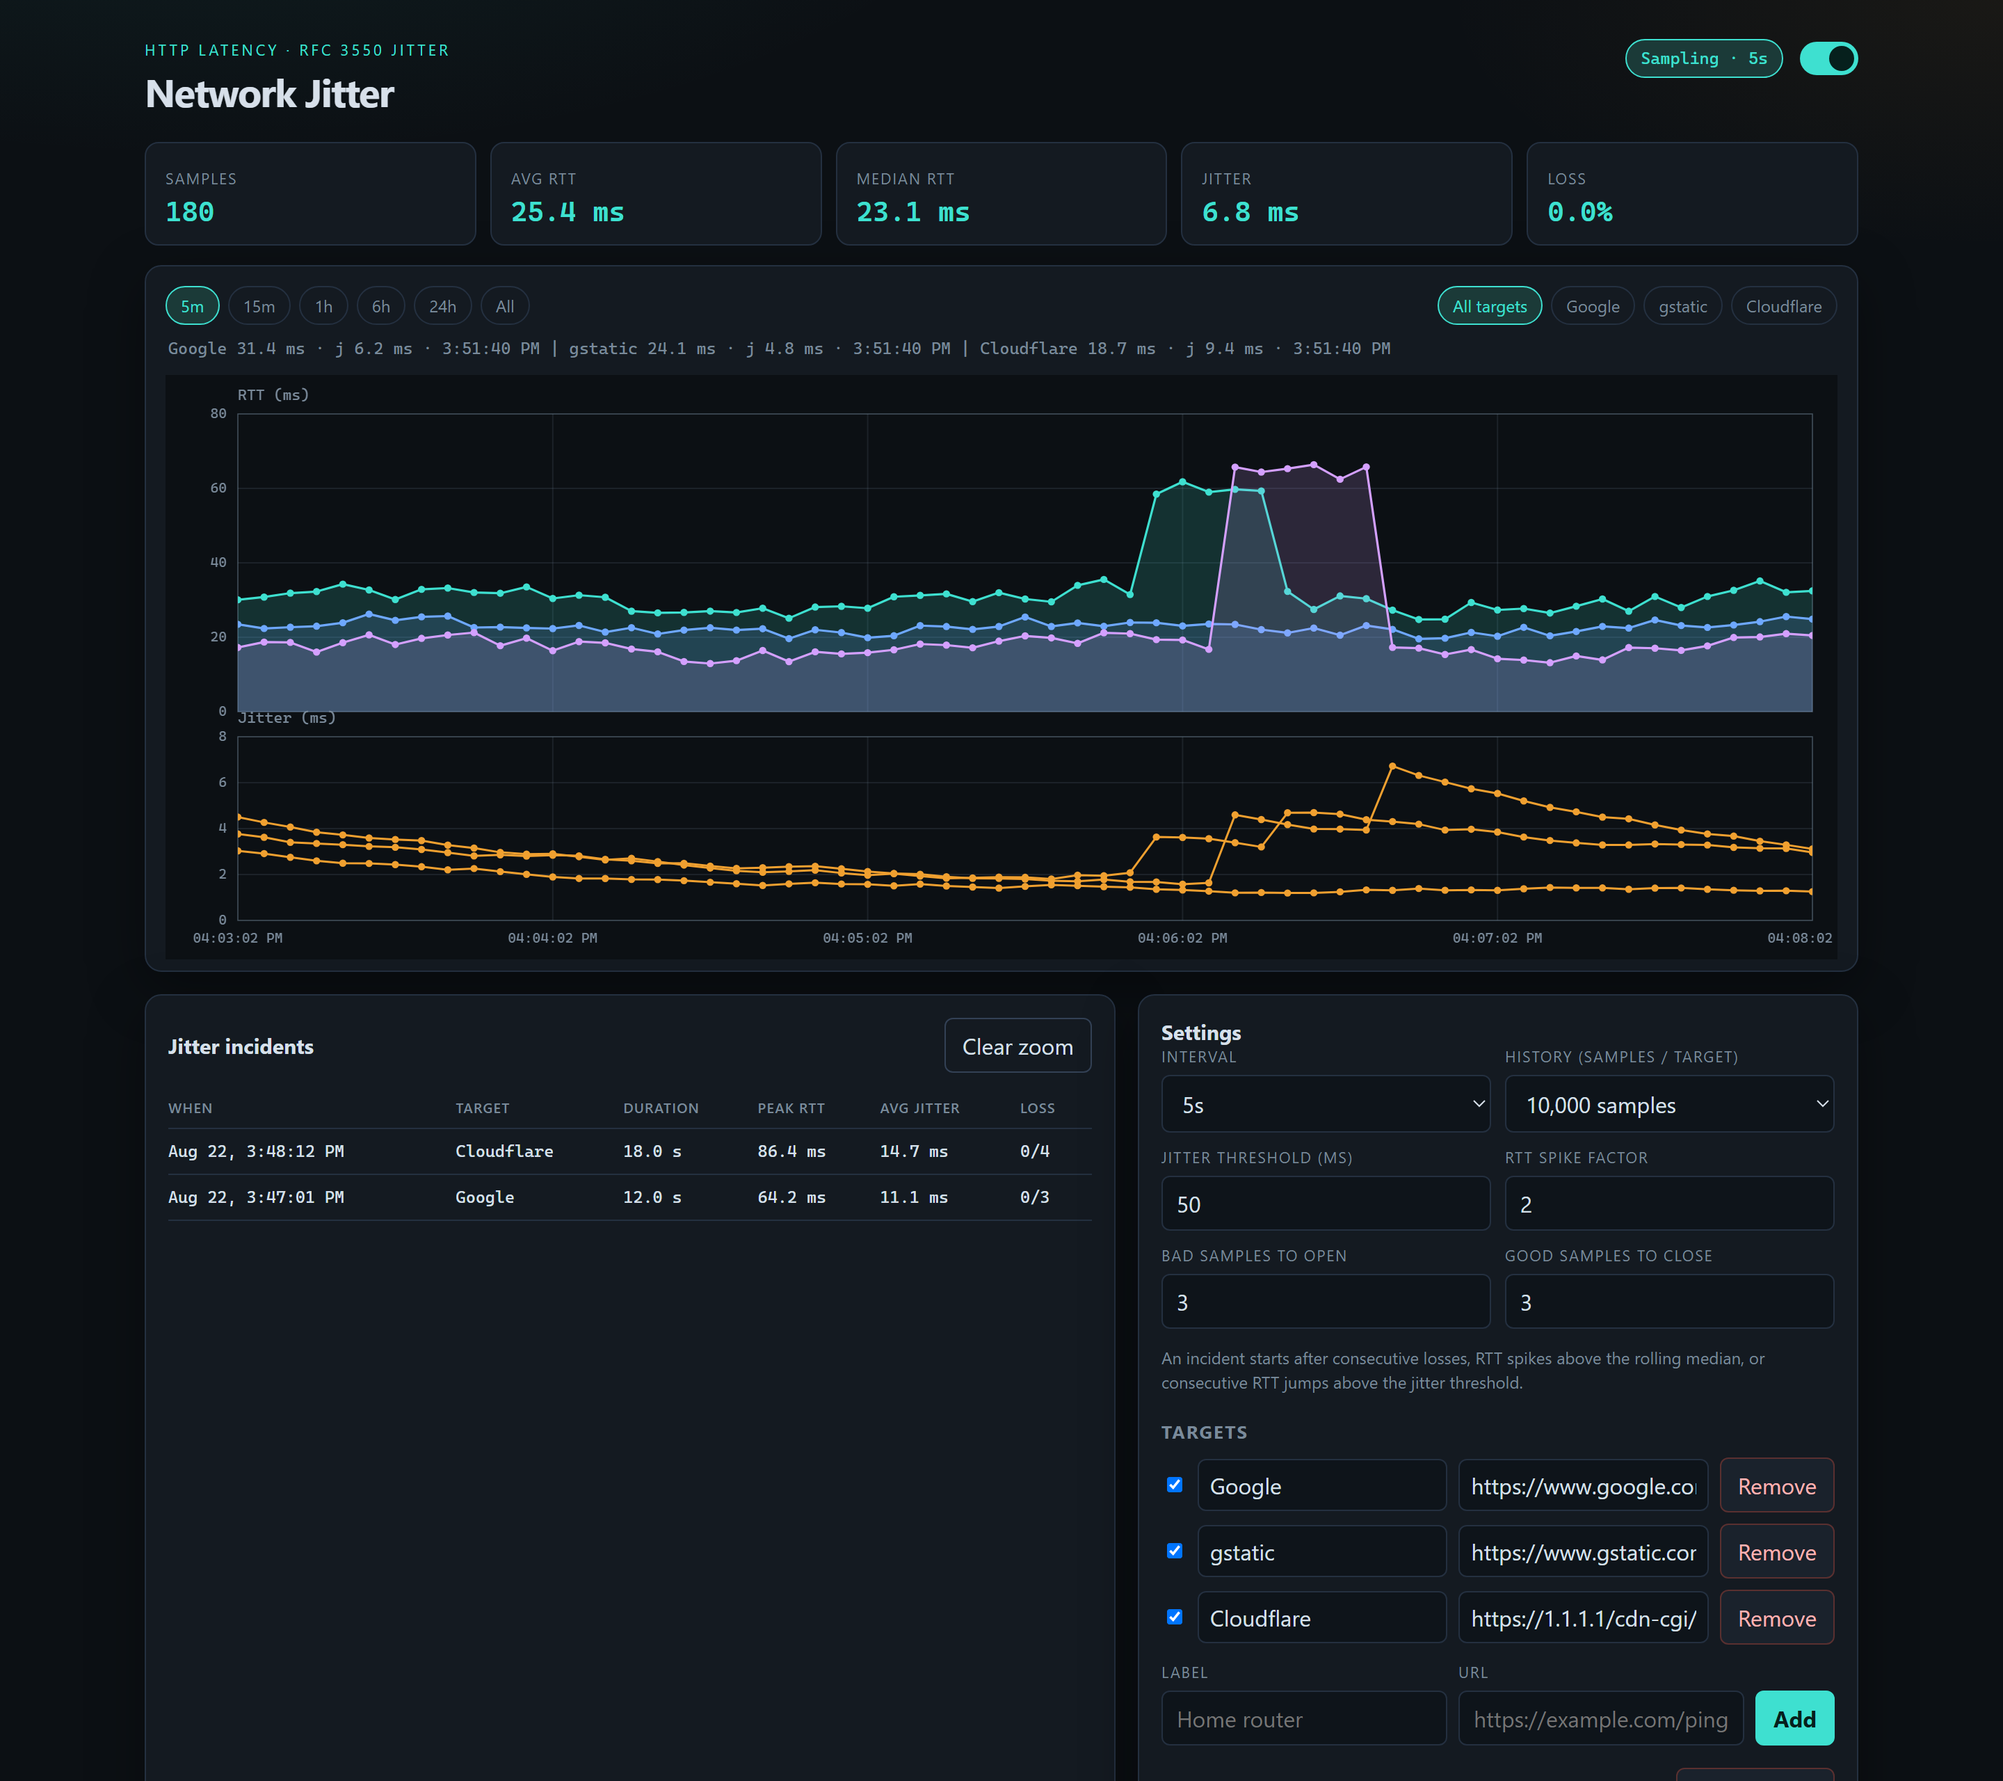
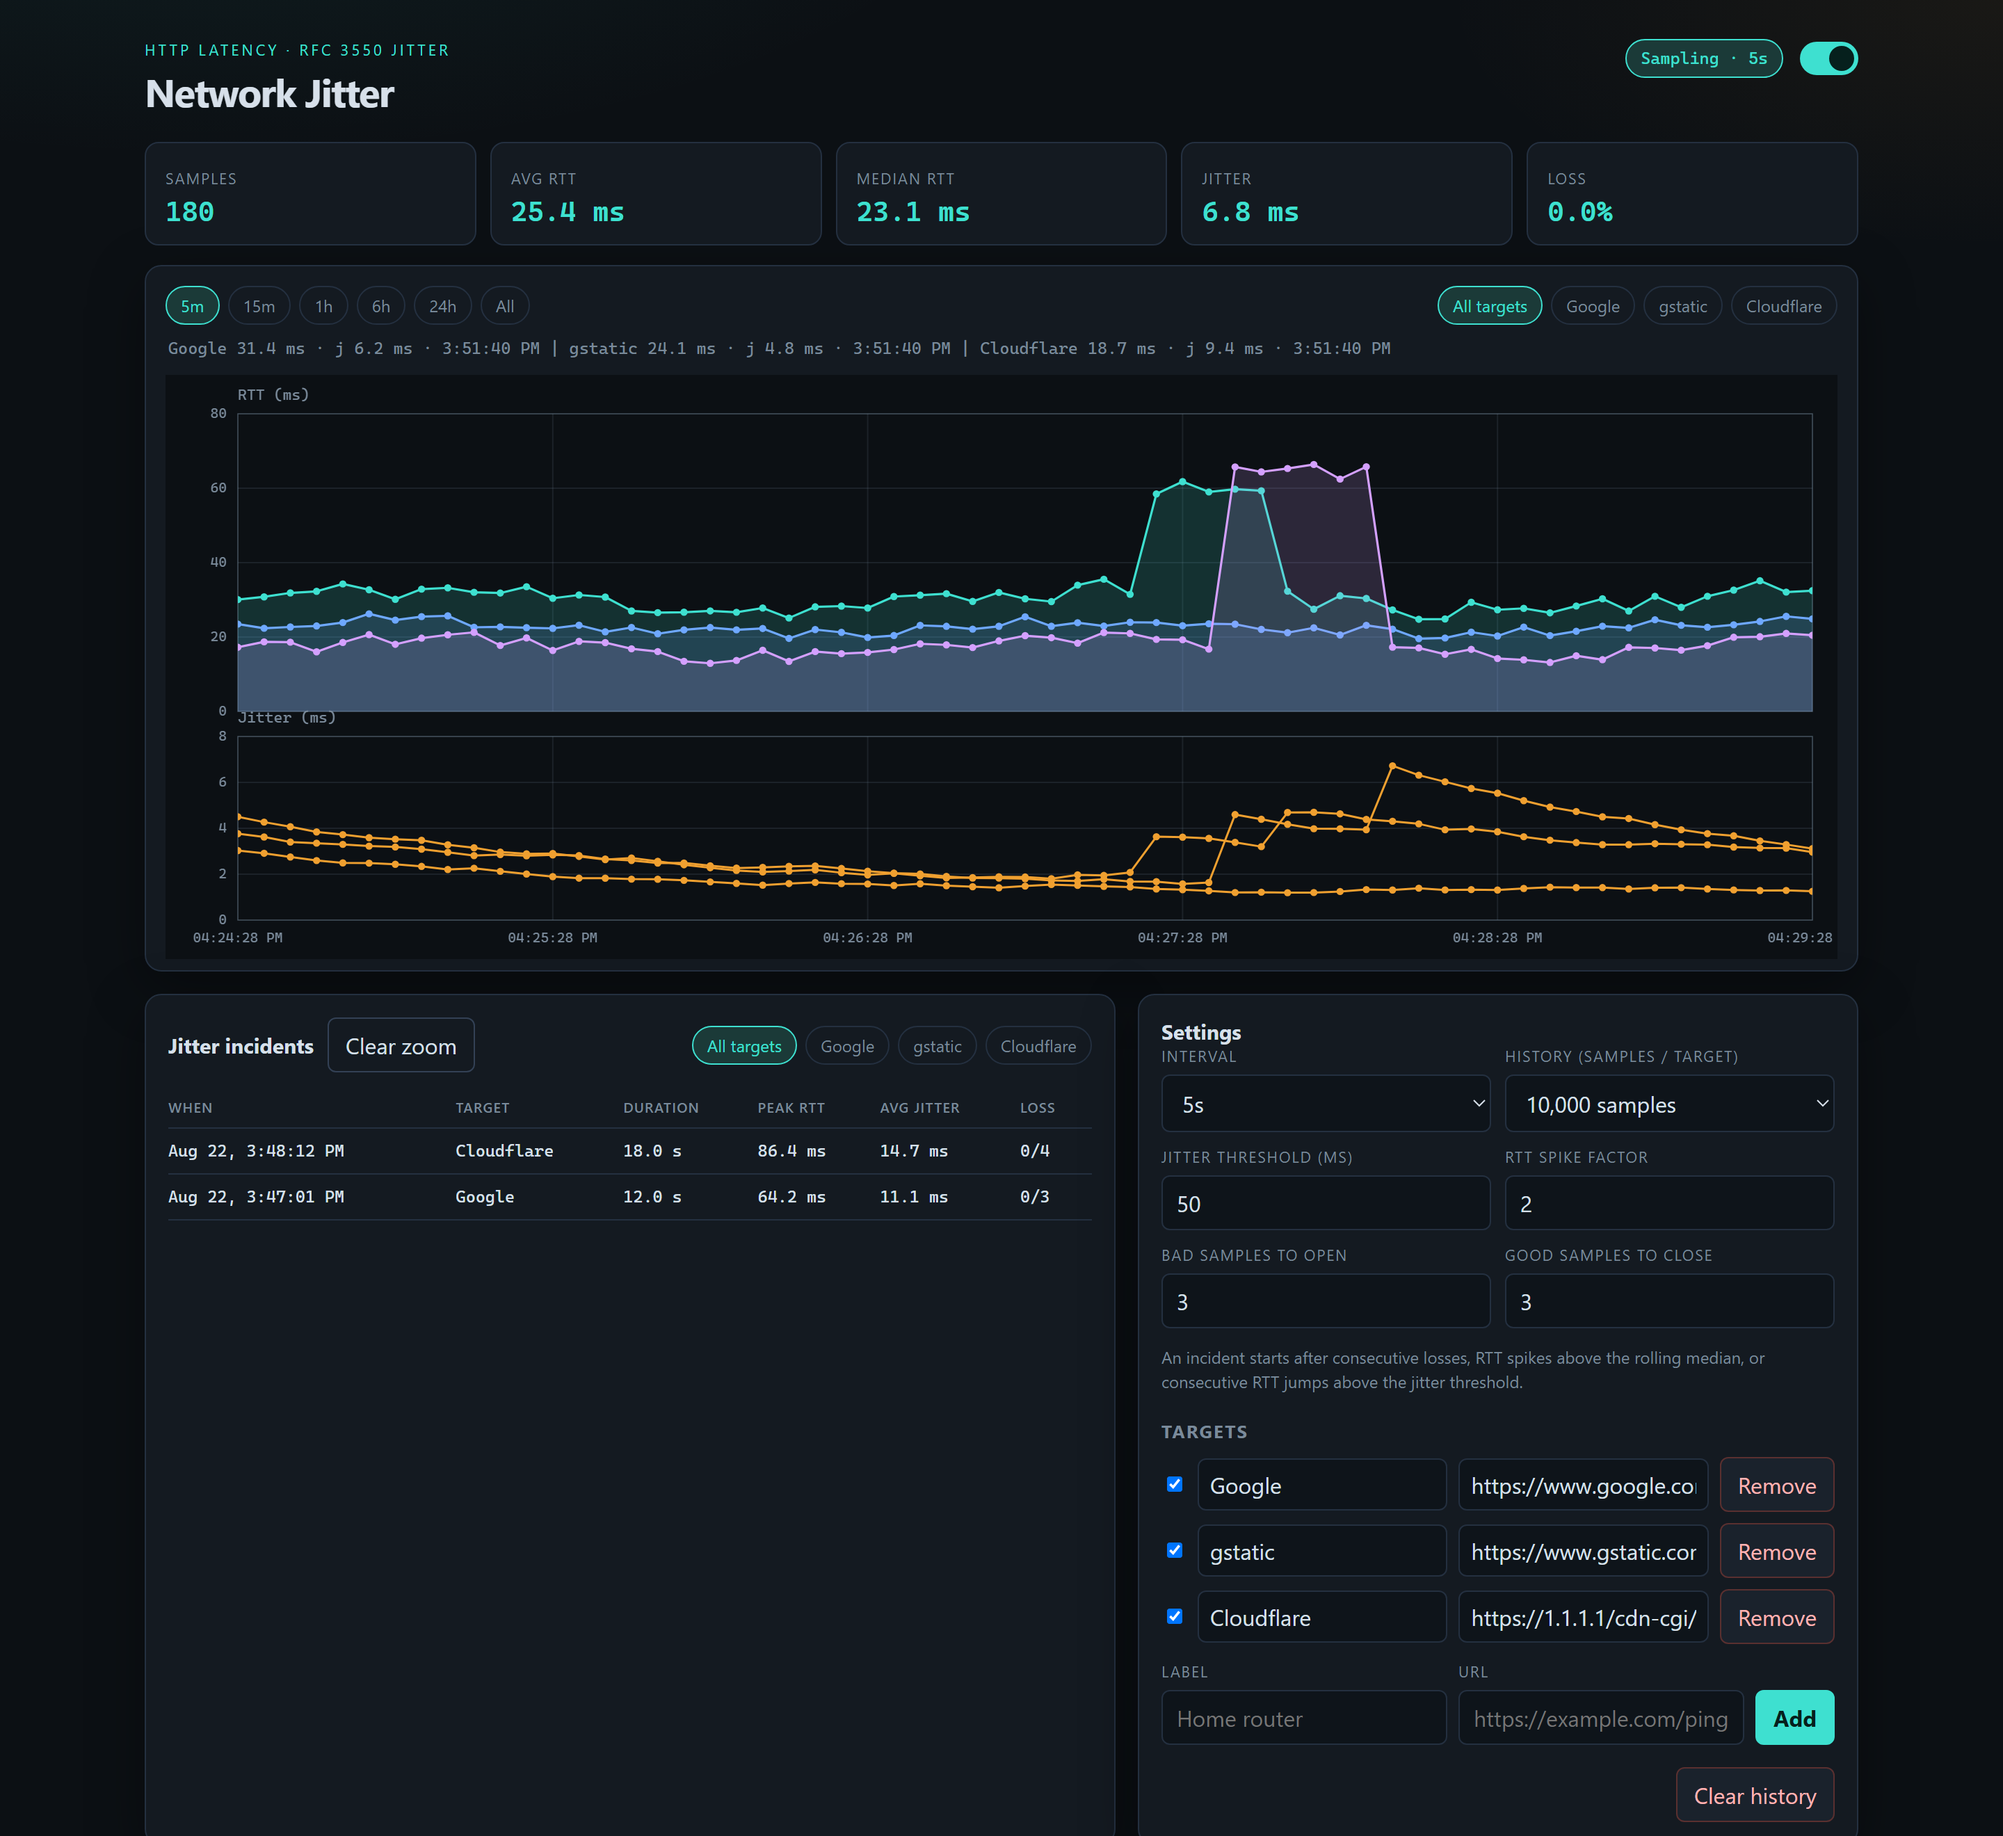
added more filter settings

diff --git a/dashboard/dashboard.js b/dashboard/dashboard.js
@@ -56,6 +56,7 @@ const els = {
   newUrl: document.getElementById("newUrl"),
   clearHistory: document.getElementById("clearHistory"),
   clearHighlight: document.getElementById("clearHighlight"),
+  incidentFilters: document.getElementById("incidentFilters"),
 };
 
 let settings = null;
@@ -63,6 +64,7 @@ let samplesMap = {};
 let incidents = [];
 let rangeId = "5m";
 let selectedTargetId = "all";
+let incidentTargetId = "all";
 let highlight = null;
 let selectedIncidentId = null;
 let applyingSettings = false;
@@ -96,6 +98,21 @@ function fillSelect(select, options, current, labelFn) {
 function visibleTargets() {
   if (selectedTargetId === "all") return settings.targets.filter((t) => t.enabled);
   return settings.targets.filter((t) => t.id === selectedTargetId);
+}
+
+function incidentFilterId() {
+  if (incidentTargetId === "all") return "all";
+  return settings.targets.some((target) => target.id === incidentTargetId) ? incidentTargetId : "all";
+}
+
+function incidentMatchesFilters(incident) {
+  const filterId = incidentFilterId();
+  if (filterId !== "all" && incident.targetId !== filterId) return false;
+  if (filterId === "all") {
+    const target = settings.targets.find((item) => item.id === incident.targetId);
+    if (target && !target.enabled) return false;
+  }
+  return true;
 }
 
 function rangeWindow() {
@@ -169,27 +186,44 @@ function renderChips() {
     els.ranges.appendChild(button);
   }
 
-  els.targetFilters.innerHTML = "";
-  const allBtn = document.createElement("button");
-  allBtn.className = `chip ${selectedTargetId === "all" ? "active" : ""}`;
-  allBtn.type = "button";
-  allBtn.textContent = "All targets";
-  allBtn.addEventListener("click", () => {
-    selectedTargetId = "all";
+  fillTargetChips(els.targetFilters, selectedTargetId, (id) => {
+    selectedTargetId = id;
     render();
   });
-  els.targetFilters.appendChild(allBtn);
+  fillTargetChips(els.incidentFilters, incidentFilterId(), (id) => {
+    incidentTargetId = id;
+    renderIncidentFilters();
+    renderIncidents();
+    renderStats();
+  });
+}
+
+function fillTargetChips(container, selectedId, onSelect) {
+  if (!container) return;
+  container.innerHTML = "";
+  const allBtn = document.createElement("button");
+  allBtn.className = `chip ${selectedId === "all" ? "active" : ""}`;
+  allBtn.type = "button";
+  allBtn.textContent = "All targets";
+  allBtn.addEventListener("click", () => onSelect("all"));
+  container.appendChild(allBtn);
   settings.targets.forEach((target, index) => {
     const button = document.createElement("button");
-    button.className = `chip ${selectedTargetId === target.id ? "active" : ""}`;
+    button.className = `chip ${selectedId === target.id ? "active" : ""}`;
     button.type = "button";
     button.textContent = target.label;
-    button.style.borderColor = selectedTargetId === target.id ? targetColors(index) : "";
-    button.addEventListener("click", () => {
-      selectedTargetId = target.id;
-      render();
-    });
-    els.targetFilters.appendChild(button);
+    if (selectedId === target.id) button.style.borderColor = targetColors(index);
+    button.addEventListener("click", () => onSelect(target.id));
+    container.appendChild(button);
+  });
+}
+
+function renderIncidentFilters() {
+  fillTargetChips(els.incidentFilters, incidentFilterId(), (id) => {
+    incidentTargetId = id;
+    renderIncidentFilters();
+    renderIncidents();
+    renderStats();
   });
 }
 
@@ -198,7 +232,7 @@ function renderStats() {
   const targets = visibleTargets();
   const combined = targets.flatMap((target) => samplesInRange(target.id, window));
   const summary = summarize(combined);
-  const openCount = incidents.filter((incident) => !incident.end).length;
+  const openCount = incidents.filter((incident) => !incident.end && incidentMatchesFilters(incident)).length;
   const elsStats = [
     ["Samples", String(summary.count)],
     ["Avg RTT", formatMs(summary.avg)],
@@ -217,9 +251,7 @@ function targetLabel(id) {
 
 function renderIncidents() {
   const window = rangeWindow();
-  const matchingTarget = incidents.filter((incident) =>
-    selectedTargetId === "all" || incident.targetId === selectedTargetId
-  );
+  const matchingTarget = incidents.filter(incidentMatchesFilters);
   const rows = matchingTarget
     .filter((incident) => {
       const end = incident.end || Date.now();
@@ -231,18 +263,42 @@ function renderIncidents() {
       return (b.start || 0) - (a.start || 0);
     });
   const hidden = matchingTarget.length - rows.length;
+  const hiddenByCheckbox = incidentFilterId() === "all"
+    ? incidents.filter((incident) => {
+        const target = settings.targets.find((item) => item.id === incident.targetId);
+        if (!target || target.enabled) return false;
+        const end = incident.end || Date.now();
+        return end >= window.start && incident.start <= window.end;
+      }).length
+    : 0;
 
   if (!rows.length) {
-    const message = hidden
-      ? `${hidden} incident${hidden === 1 ? "" : "s"} are outside this ${rangeId} range. Choose a longer range or All to see them.`
-      : "No incidents yet. Spikes, jitter jumps, and losses will show up here.";
+    let message = "No incidents yet. Spikes, jitter jumps, and losses will show up here.";
+    if (hidden) {
+      message = `${hidden} incident${hidden === 1 ? "" : "s"} are outside this ${rangeId} range. Choose a longer range or All to see them.`;
+    } else if (hiddenByCheckbox) {
+      message = `${hiddenByCheckbox} incident${hiddenByCheckbox === 1 ? "" : "s"} hidden by unchecked targets. Check a target or pick it in the filter.`;
+    } else if (incidentFilterId() !== "all") {
+      message = `No incidents for ${escapeHtml(targetLabel(incidentFilterId()))} in this range.`;
+    }
     els.incidents.innerHTML = `<tr><td class="empty" colspan="6">${message}</td></tr>`;
     return;
   }
 
-  const notice = hidden
-    ? `<tr><td class="empty" colspan="6">${hidden} older incident${hidden === 1 ? "" : "s"} hidden by the ${rangeId} range. Choose All to show everything.</td></tr>`
-    : "";
+  const notices = [];
+  if (hidden) {
+    notices.push(
+      `${hidden} older incident${hidden === 1 ? "" : "s"} hidden by the ${rangeId} range. Choose All to show everything.`
+    );
+  }
+  if (hiddenByCheckbox) {
+    notices.push(
+      `${hiddenByCheckbox} incident${hiddenByCheckbox === 1 ? "" : "s"} hidden by unchecked targets.`
+    );
+  }
+  const notice = notices
+    .map((text) => `<tr><td class="empty" colspan="6">${text}</td></tr>`)
+    .join("");
 
   els.incidents.innerHTML =
     notice +
@@ -282,7 +338,7 @@ function renderTargets() {
     const row = document.createElement("div");
     row.className = "target-row";
     row.innerHTML = `
-      <input type="checkbox" ${target.enabled ? "checked" : ""} data-act="enable" />
+      <input type="checkbox" ${target.enabled ? "checked" : ""} data-act="enable" title="Sample this target and include it in the incident table" />
       <input type="text" value="${escapeAttr(target.label)}" data-act="label" />
       <input type="url" value="${escapeAttr(target.url)}" data-act="url" />
       <button class="btn danger" type="button" data-act="remove">Remove</button>

diff --git a/dashboard/dashboard.html b/dashboard/dashboard.html
@@ -40,8 +40,11 @@
       <section class="split">
         <article class="panel">
           <div class="panel-head">
-            <h2>Jitter incidents</h2>
-            <button id="clearHighlight" class="btn ghost" type="button">Clear zoom</button>
+            <div class="panel-head-title">
+              <h2>Jitter incidents</h2>
+              <button id="clearHighlight" class="btn ghost" type="button">Clear zoom</button>
+            </div>
+            <div id="incidentFilters" class="chips"></div>
           </div>
           <div class="table-wrap">
             <table>

diff --git a/dashboard/dashboard.css b/dashboard/dashboard.css
@@ -165,7 +165,19 @@ h3 {
   display: flex;
   justify-content: space-between;
   align-items: center;
+  gap: 12px;
+  flex-wrap: wrap;
   margin-bottom: 10px;
+}
+
+.panel-head-title {
+  display: flex;
+  align-items: center;
+  gap: 10px;
+}
+
+.panel-head .chips {
+  margin-left: auto;
 }
 
 .table-wrap {
